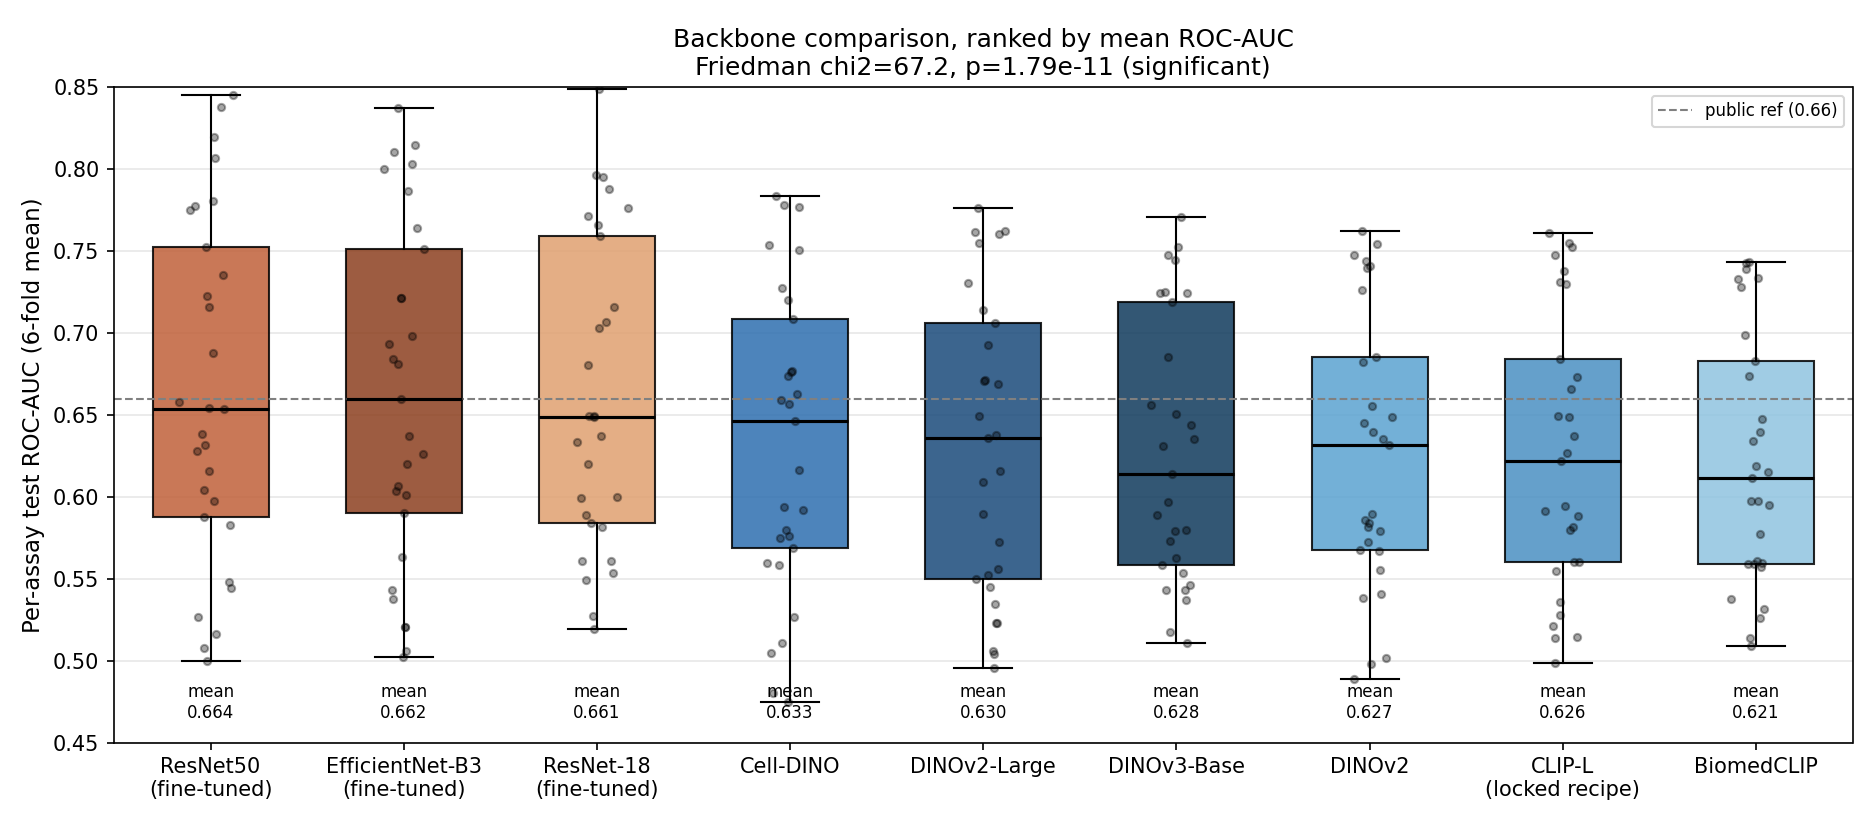
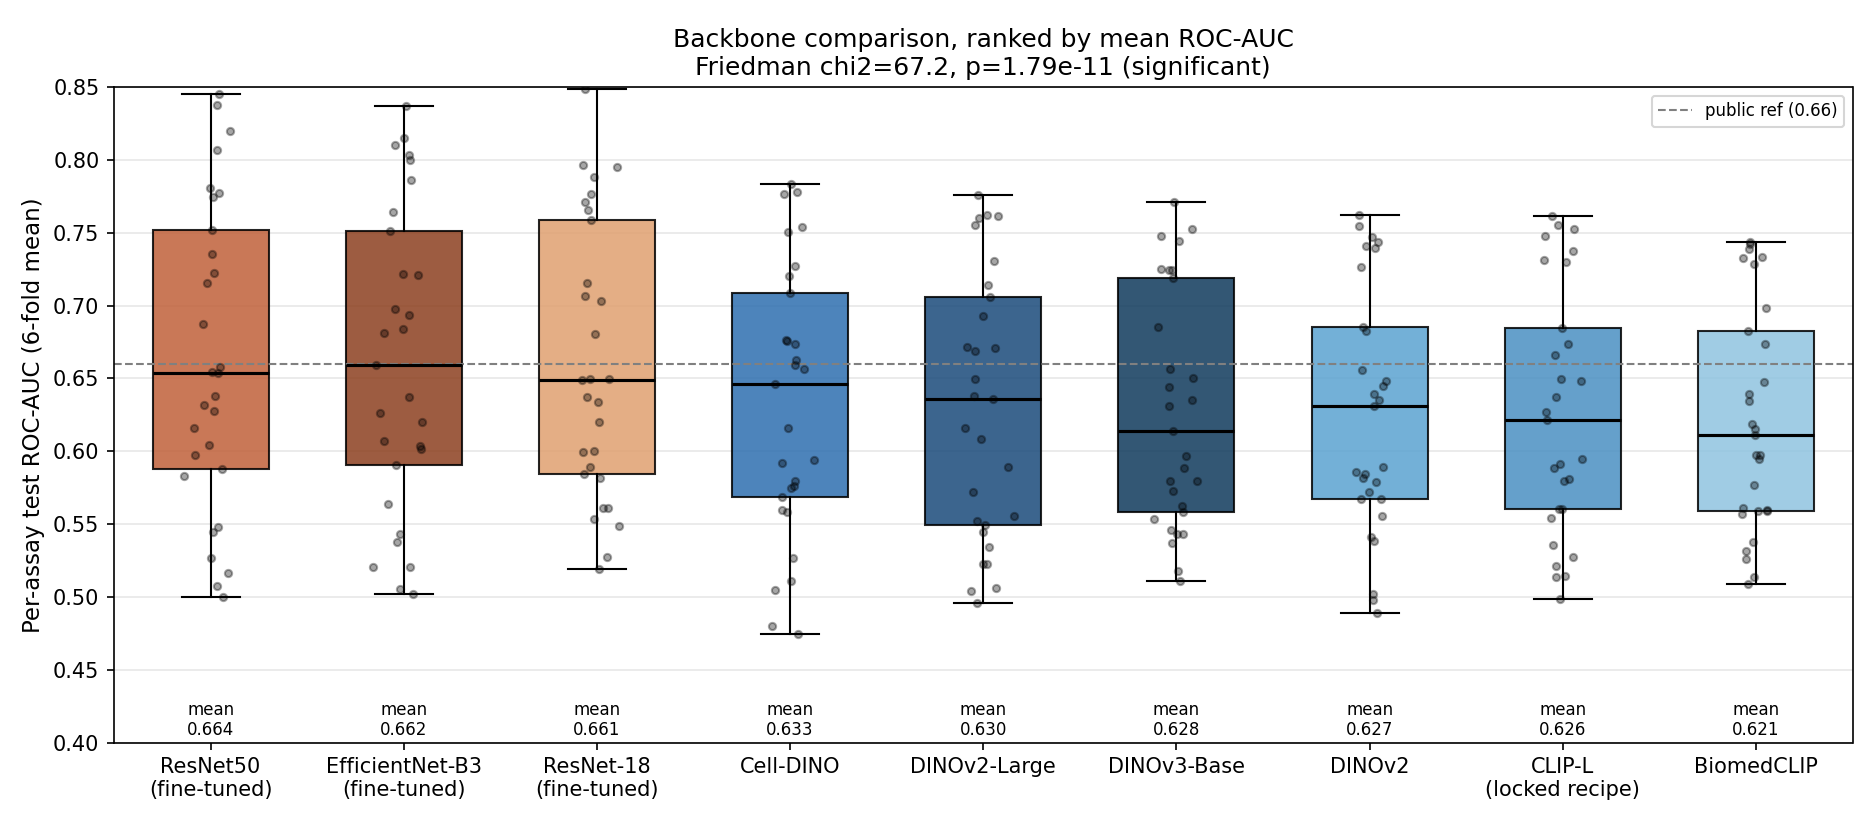
Fix label overlap in Figures B, F and H
Figure B mean labels, Figure F legend and Figure H labels no longer overlap.

diff --git a/make_pr_calibration_pareto.py b/make_pr_calibration_pareto.py
@@ -118,12 +118,12 @@ ax.axhline(base_rate, ls="--", color="grey", lw=1, label=f"random baseline (AP={
 ax.set_xlabel("Recall", fontsize=11)
 ax.set_ylabel("Precision", fontsize=11)
 ax.set_title("Precision-Recall curves, pooled across folds and assays\n(JUMP-CP source_11, 224 resolution)", fontsize=12)
-ax.legend(fontsize=8.5, loc="upper right")
+ax.legend(fontsize=8.5, loc="upper left", bbox_to_anchor=(1.01, 1.0))
 ax.grid(alpha=0.3)
 ax.set_xlim(0, 1)
 ax.set_ylim(0, 1)
 plt.tight_layout()
-plt.savefig(os.path.join(OUTDIR, "fig_F_pr_curves.png"), dpi=150)
+plt.savefig(os.path.join(OUTDIR, "fig_F_pr_curves.png"), dpi=150, bbox_inches="tight")
 plt.close()
 print("wrote fig_F_pr_curves.png")
 
@@ -165,7 +165,7 @@ PARETO = [
     ("Cell-DINO",             0.6333, 100 * head_params(384)  / 21_500_000, "frozen",    (10, 18)),
     ("DINOv2-Small",          0.6259, 100 * head_params(384)  / 22_100_000, "frozen",    (10, -32)),
     ("DINOv2-Base",           0.6272, 100 * head_params(768)  / 86_600_000, "frozen",    (18, 22)),
-    ("DINOv3-Base",           0.6281, 100 * head_params(768)  / 86_000_000, "frozen",    (-75, 32)),  # ViT-B, ~86M assumed (768-dim matches DINOv2-Base scale; not wired into this repo's models.py)
+    ("DINOv3-Base",           0.6281, 100 * head_params(768)  / 86_000_000, "frozen",    (-40, 72)),  # ViT-B, ~86M assumed (768-dim matches DINOv2-Base scale; not wired into this repo's models.py)
     ("BiomedCLIP",            0.6214, 100 * head_params(768)  / 86_000_000, "frozen",    (5, -42)),  # ViT-B/16 vision tower, ~86M
     ("DINOv2-Large",          0.6299, 100 * head_params(1024) / 304_800_000, "frozen",   (10, 30)),
     ("CLIP-L (locked)",       0.6257, 100 * head_params(768)  / 304_000_000, "frozen",   (-15, -35)),

diff --git a/make_benchmark_figures.py b/make_benchmark_figures.py
@@ -162,10 +162,10 @@ ax.set_title(f"Backbone comparison, ranked by mean ROC-AUC\n"
              fontsize=12)
 ax.legend(fontsize=8, loc="upper right")
 ax.grid(axis="y", alpha=0.3)
-ax.set_ylim(0.45, 0.85)
+ax.set_ylim(0.40, 0.85)
 # annotate means just under each box's whisker region
 for i, c in enumerate(order):
-    ax.text(i + 1, 0.465, f"mean\n{paired[c].mean():.3f}", ha="center",
+    ax.text(i + 1, 0.405, f"mean\n{paired[c].mean():.3f}", ha="center",
             fontsize=8, color="black")
 plt.tight_layout()
 plt.savefig(os.path.join(OUTDIR, "fig_B_model_comparison.png"), dpi=150)
